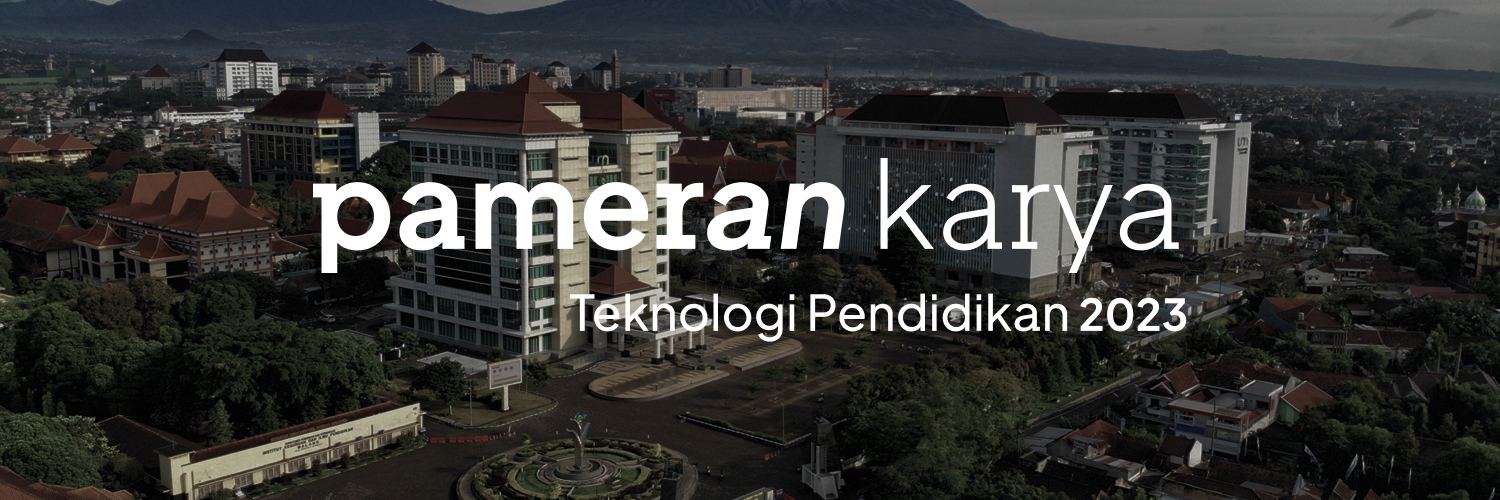
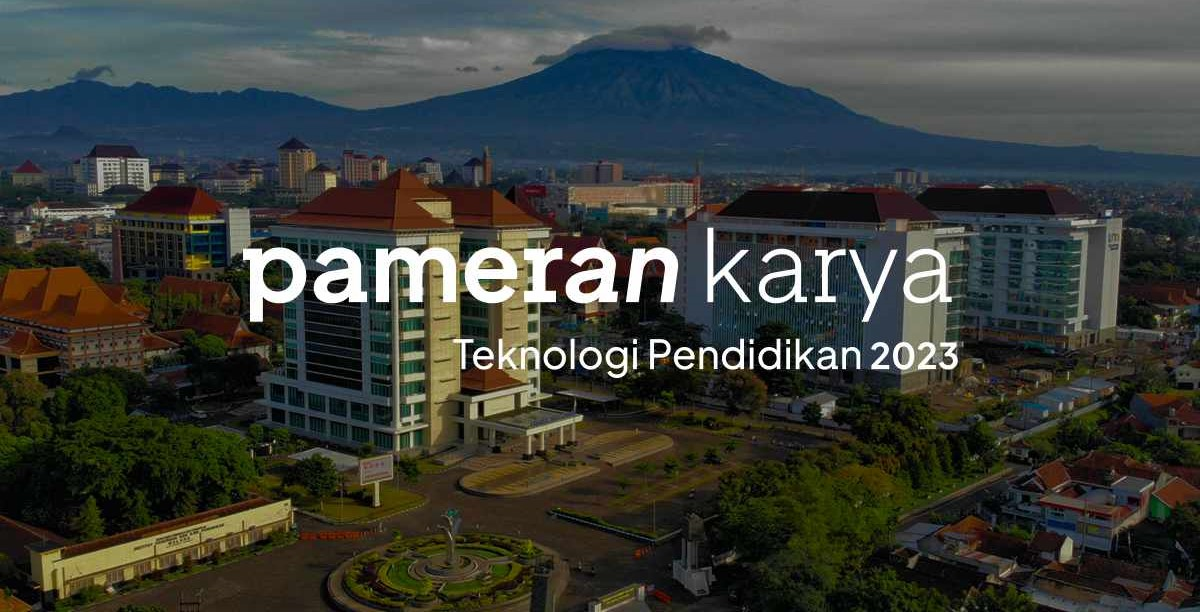
added sponsors and change image header

diff --git a/README.md b/README.md
@@ -35,7 +35,7 @@ Tujuan kami dalam membuat aplikasi ini adalah untuk memudahkan memperkenalkan ka
 | Rengga Prakoso Nugroho | 200121601241 | System & Frontend Engineer |
 | Muhammad Ubaidillah    | 200121601242 | Assest & Web Designer      |
 
-## Bntribusi
+## Berkotribusi
 
 Jika kamu ingin berkontribusi dalam pengembangan aplikasi ini, silahkan membaca pada [Tata Cara Berkontribusi](/CONTRIBUTING.md).
 
@@ -49,3 +49,15 @@ Jangan ragu untuk mengkloning dan memodifikasi aplikasi sesuai keinginan, tetapi
 Aplikasi ini merupakan aplikasi yang dikembangkan oleh sivitas akademika Universitas Negeri Malang. Aplikasi ini tidak bertujuan untuk kepentingan komersial, namun hanya untuk kepentingan akademik. Aplikasi ini dikelola dibawah infrastruktur EDTECH.ID dengan kerjasama non-eksklusif dengan Mahasiswa Departemen Teknologi Pendidikan UM. Dalam proses manajemen proyek ini, DPTSI EDTECH.ID bertindak sebagai fasilitator yang bertanggung jawab atas pengelolaan proyek dan pengembangan aplikasi ini.
 
 _EDTECH.ID tidak bertanggung jawab atas segala bentuk kerugian yang ditimbulkan oleh penggunaan aplikasi ini._
+
+## Sponsor
+
+Proyek ini didukung serta disponsori oleh:
+
+[![EDTECH.ID](/docs/Logo_EDTECH.png "EDTECH.ID")](https://teknologipendidikan.or.id)
+
+[![Google Workspcae](/docs/Logo_google_workspace.png "Google Workspace")](https://workspace.google.com)
+
+[![Tim DPTSI](/docs/Logo_DPTSI.png "Tim DPTSI EDTECH.ID sebagai pengelola infrastruktur proyek")](https://dptsi.edtech.or.id)
+
+[![Deploys by Netlify](https://www.netlify.com/img/global/badges/netlify-color-accent.svg "Deploys by Netlify")](https://www.netlify.com)
